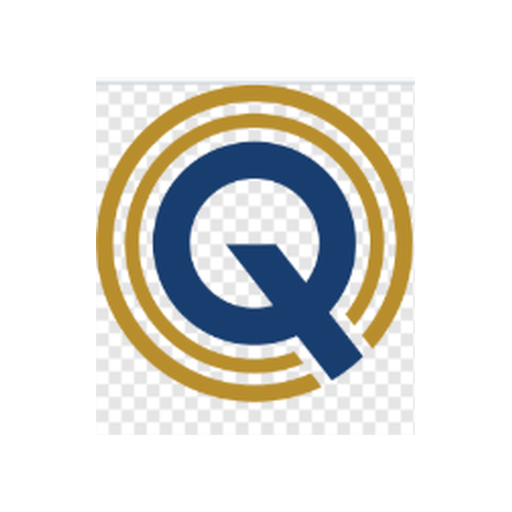
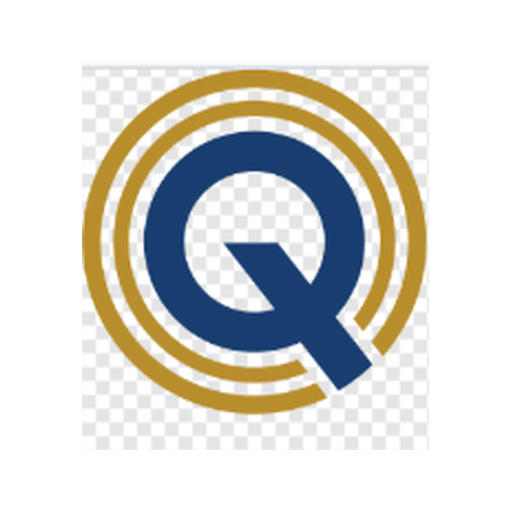
12

diff --git a/index.html b/index.html
@@ -14,15 +14,15 @@
 <meta name="format-detection" content="telephone=no">
 
 <!-- Apple touch icons (home screen on iPhone/iPad) -->
-<link rel="apple-touch-icon" href="assets/icon-180.png?v=10">
-<link rel="apple-touch-icon" sizes="180x180" href="assets/icon-180.png?v=10">
-<link rel="apple-touch-icon" sizes="192x192" href="assets/icon-192.png?v=10">
+<link rel="apple-touch-icon" href="assets/icon-180.png?v=11">
+<link rel="apple-touch-icon" sizes="180x180" href="assets/icon-180.png?v=11">
+<link rel="apple-touch-icon" sizes="192x192" href="assets/icon-192.png?v=11">
 
 <!-- Favicons -->
-<link rel="icon" type="image/png" sizes="32x32" href="assets/icon-32.png?v=10">
-<link rel="icon" type="image/png" sizes="16x16" href="assets/icon-16.png?v=10">
-<link rel="icon" type="image/png" sizes="192x192" href="assets/icon-192.png?v=10">
-<link rel="shortcut icon" href="assets/icon-32.png?v=10">
+<link rel="icon" type="image/png" sizes="32x32" href="assets/icon-32.png?v=11">
+<link rel="icon" type="image/png" sizes="16x16" href="assets/icon-16.png?v=11">
+<link rel="icon" type="image/png" sizes="192x192" href="assets/icon-192.png?v=11">
+<link rel="shortcut icon" href="assets/icon-32.png?v=11">
 
 <!-- PWA manifest (Android / desktop Chrome) -->
 <link rel="manifest" href="manifest.json">

diff --git a/_build_icons.py b/_build_icons.py
@@ -1,7 +1,7 @@
-"""Generate favicons/apple-touch-icons from s60 (the Quinaptis Q artwork).
+"""Generate favicons/apple-touch-icons from s60 on a solid white canvas.
 
-Take _q_source.png (= s60), trim transparent borders, centre on a square
-canvas with enough padding so it renders cleanly at every size.
+Centres the Quinaptis Q artwork on a white square so iOS doesn't render
+the transparent areas as its own default dark chrome.
 """
 from PIL import Image
 import os
@@ -9,6 +9,8 @@ import os
 HERE = os.path.dirname(os.path.abspath(__file__))
 OUT = os.path.join(HERE, 'assets')
 SRC = os.path.join(OUT, '_q_source.png')
+
+WHITE = (255, 255, 255, 255)
 
 
 def main():
@@ -26,9 +28,10 @@ def main():
     }
 
     for name, sz in sizes.items():
-        # iOS squircles its apple-touch-icons, so leave room.
-        pad = 0.15 if sz >= 180 else 0.05
-        canvas = Image.new('RGBA', (sz, sz), (0, 0, 0, 0))
+        pad = 0.12 if sz >= 180 else 0.05
+        # Build transparent overlay and composite over solid white background
+        white_bg = Image.new('RGBA', (sz, sz), WHITE)
+        overlay = Image.new('RGBA', (sz, sz), (0, 0, 0, 0))
         inner = int(sz * (1 - 2 * pad))
         qw, qh = q.size
         scale = min(inner / qw, inner / qh)
@@ -37,8 +40,9 @@ def main():
         resized = q.resize((nw, nh), Image.LANCZOS)
         px = (sz - nw) // 2
         py = (sz - nh) // 2
-        canvas.paste(resized, (px, py), resized)
-        canvas.save(os.path.join(OUT, name))
+        overlay.paste(resized, (px, py), resized)
+        final = Image.alpha_composite(white_bg, overlay).convert('RGB')
+        final.save(os.path.join(OUT, name))
         print(f'{name}: {sz}x{sz}')
     print('Done.')
 
